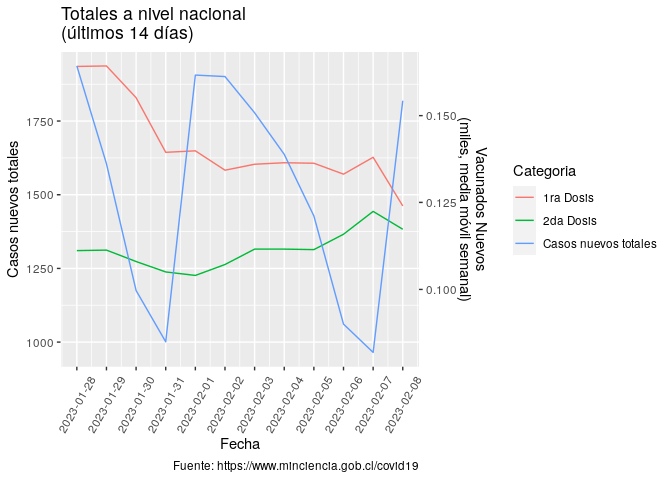
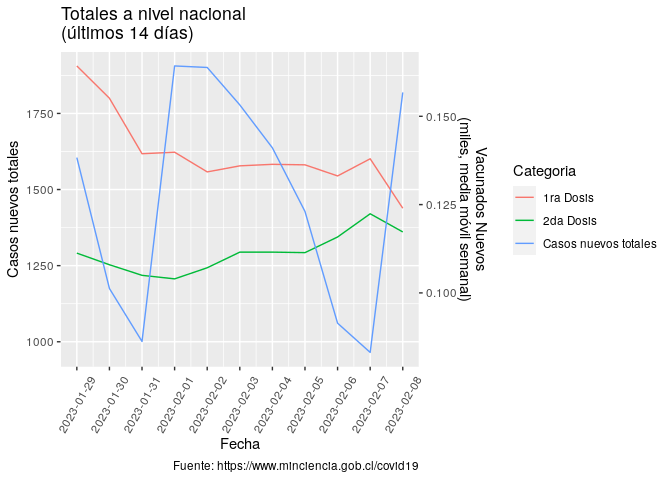
Re-build Rmarkdown files

diff --git a/README.md b/README.md
@@ -3,7 +3,7 @@
 
 Ejemplo de uso de total\_casos de COVID recopilados por el Ministerio de
 Ciencia de Chile <https://www.minciencia.gob.cl/covid19>. Última
-actualización: 2023-02-10
+actualización: 2023-02-11
 
 ## Visualización desde el comienzo de la pandemia
 
